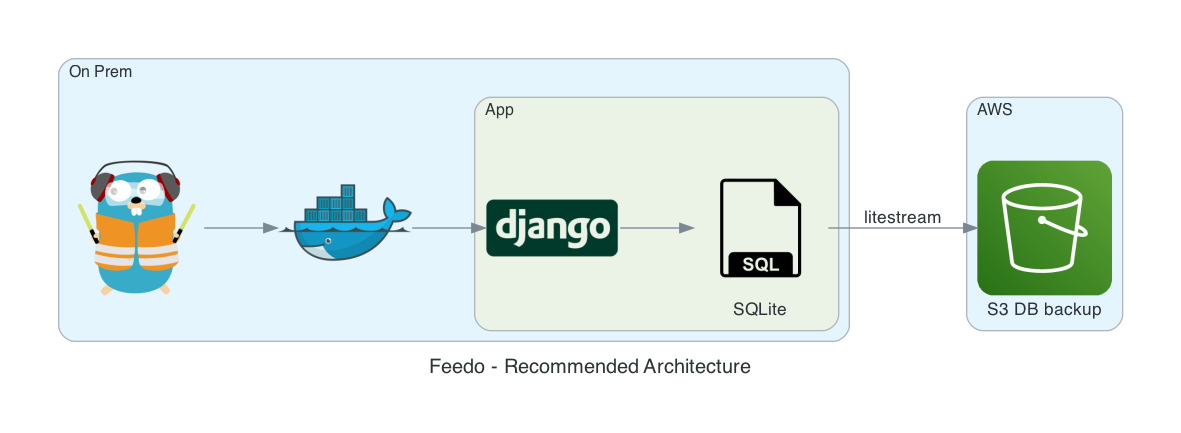
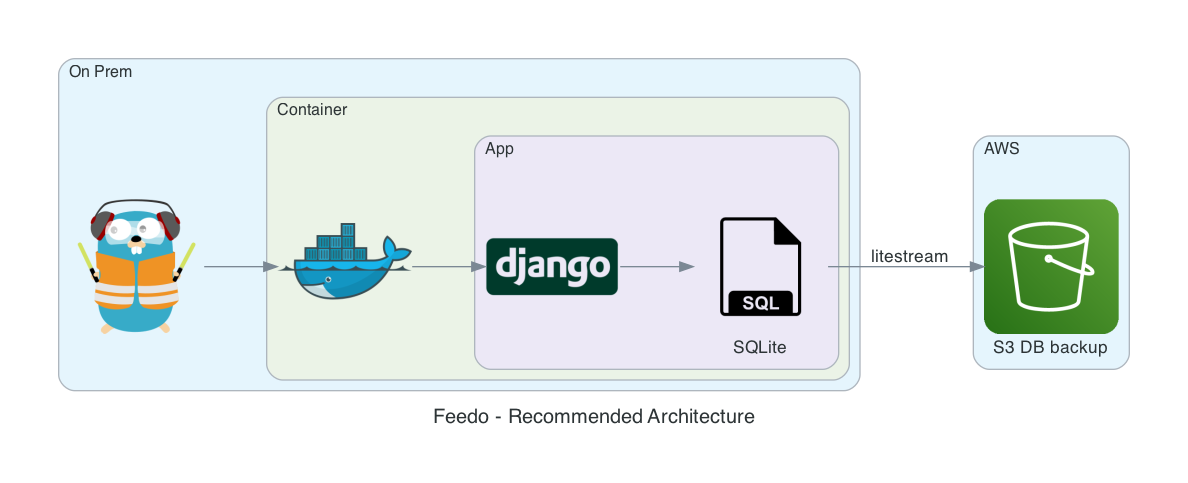
Update docs

Changed region(s): [[0.0305, 0.1201, 0.945, 0.9007], [0.7925, 0.2102, 0.9754, 0.3303], [0.2134, 0.2102, 0.3048, 0.2402]]

diff --git a/docs/diagram.py b/docs/diagram.py
@@ -15,11 +15,12 @@ graph_attr = {
 with Diagram("Feedo - Recommended Architecture", filename="docs/feedo-architecture", graph_attr=graph_attr):
     with Cluster("On Prem"):
         web = Traefik()
-        docker = Docker()
 
-        with Cluster("App"):
-            app = Django()
-            db = SQL("SQLite")
+        with Cluster("Container"):
+            docker = Docker()
+            with Cluster("App"):
+                app = Django()
+                db = SQL("SQLite")
     with Cluster("AWS"):
         litestream = Edge(label="litestream")
         s3 = S3("S3 DB backup")

diff --git a/README.md b/README.md
@@ -1,8 +1,6 @@
 # Feedo - Personal Feed Reader
 
-A non-fancy personal feed reader.
-
-![architecture](./docs/screenshot.png)
+A self-hosted, non-fancy, personal feed reader.
 
 ## Supported Feed Sources
 
@@ -10,19 +8,29 @@ A non-fancy personal feed reader.
 * Reddit (using [PRAW](https://praw.readthedocs.io/en/stable/index.html))
 * e-mail
 
+## Screenshots
+
+![screenshot](./docs/screenshot.png)
+
+![screenshot](./docs/screenshot2.png)
+
 ## Requirements
 
 * **python3** + **pip3**
-  * **sqlite3**
+* **sqlite3**
 * A **Reddit account** with subscriptions of the subreddits you'd like to fetch
 
-## Recommended Architecture
+## Architecture
 
 Feedo doesn't require a specific architecture. Any environment that runs a webserver + python3 code should be fine. However, this is one possible way to run it:
 
 ![architecture](./docs/feedo-architecture.png)
 
-## Installation for Development
+## Production (recommended)
+
+* A docker file for Python + uWSGI like [this one](https://github.com/caktus/dockerfile_post/blob/master/Dockerfile)
+
+## Development
 
 Create a `.env` file in the document root with:
 
